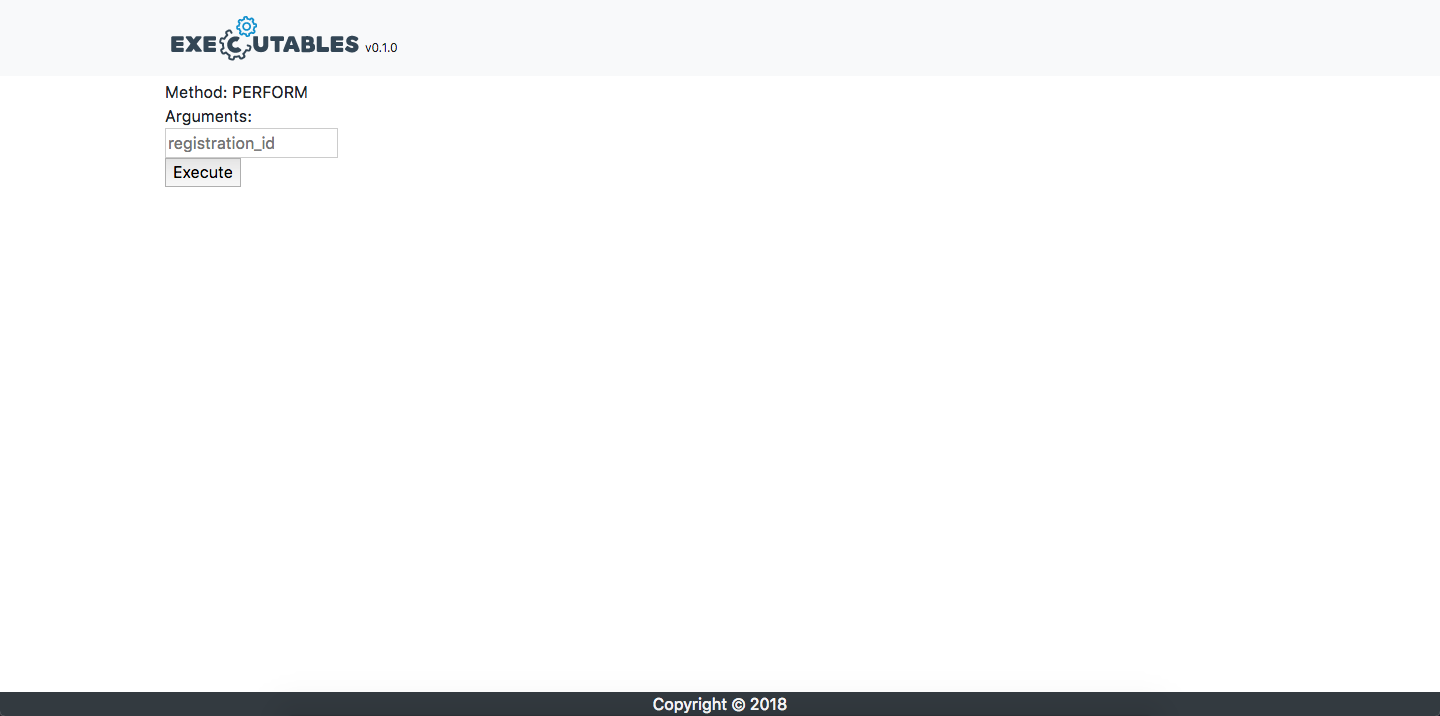
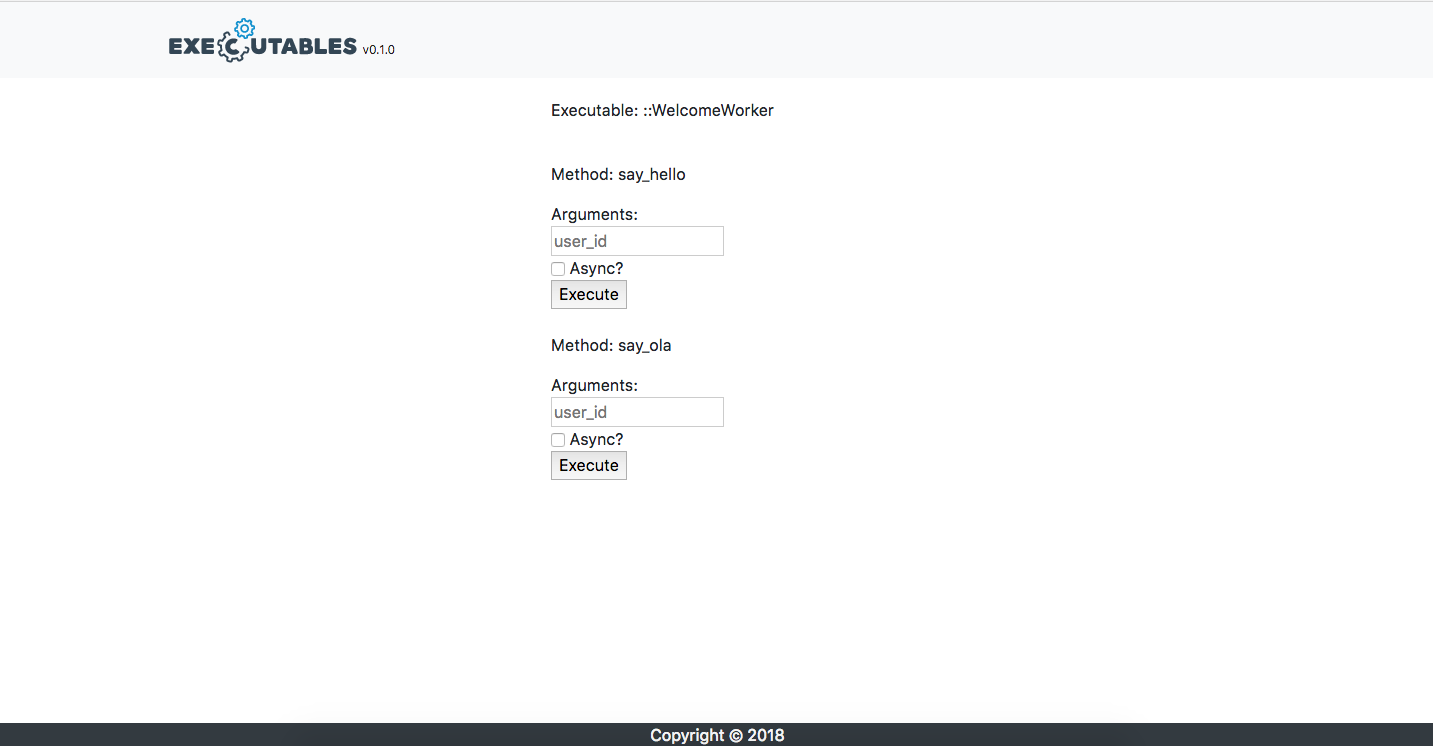
Deploy Thu May  3 13:23:37 IST 2018

diff --git a/2018/04/17/why-and-how-to-use-executables/index.html b/2018/04/17/why-and-how-to-use-executables/index.html
@@ -210,14 +210,15 @@
   <div class="post-content" itemprop="articleBody">
     <h3 id="why-executables">Why Executables?</h3>
 
-<p>If you have ever worked on a application which depends on lots of third party apis then you might know that most of the apis don’t work as expected.</p>
+<p>Executables is built to solve following problems:</p>
 
-<p>Such was the case in one of the projects I was working on. It falls under Fintech domain and being a fintech application, it requires a user’s details to be shared with different third parties for compliance and regulatory reasons and this is handelled by lots of background jobs.</p>
+<p>1) Do you often login to your prod server to manually execute some code?</p>
 
-<p>Most of the times this background jobs won’t run properly due to various causes
-like some third party is down or sometimes just because life as we know is not so perfect. In order to solve this first we started executing this executables from rails console of our prod server. But this led to more problems like dependency on a particular team member since everybody doesn’t have production access, and as the number of job failures increased it became time consuming as well. In order to solve this new problem we came up with a quick solution, we started exposing this jobs on our application’s admin panel so that our operations team can run them as per need, it worked in short run as a quick fix.</p>
+<p>2) Do you have dependency on a particular dev(the one with PROD access) in your team to get things done?</p>
 
-<p>But as we know quick fixes are not always good in a long run and leads to more problems. It happens so we ended up adding multiple routes and controller actions whenever we needed a new executable to be exposed on our admin panel. This became a problem which demanded proper solution and so it happens I came across sidekiq’s web module which is nothing but a Rack app which can be mounted with your rails application and it facilitates job monitoring. This led me to a question that if I can monitor jobs via a web interface why can’t I execute them as well via a web interface, and thus I created executables.</p>
+<p>3) Do you hate writing redundant code just to make an POC to be executable via a web interface?</p>
+
+<p>If you face above problems then executables might be the solution for you, with the help of executables you can expose your jobs/workers/anything that accepts JSON datatypes (numbers, strings, boolean, array, hash) and can execute them via a web interface keep reading to know how you can achieve this.</p>
 
 <h3 id="how-to-use-executables">How to use Executables?</h3>
 
@@ -229,7 +230,7 @@ like some third party is down or sometimes just because life as we know is not s
 
 <p><br /></p>
 
-<p>As mentioned in the screenshot in order to execute a particular executable you can click on it and you will be redirected to a screen like following, here you will be able to see the executable methods available and arguments it takes, you can provide respective arguments and click on execute and you’re all set.</p>
+<p>As mentioned in the screenshot in order to execute a particular executable you can click on it and you will be redirected to a screen like following, here you will be able to see the executable methods available and arguments it takes, you can provide respective arguments and as per your need you can run the executable inline or async.</p>
 
 <p><br /></p>
 
